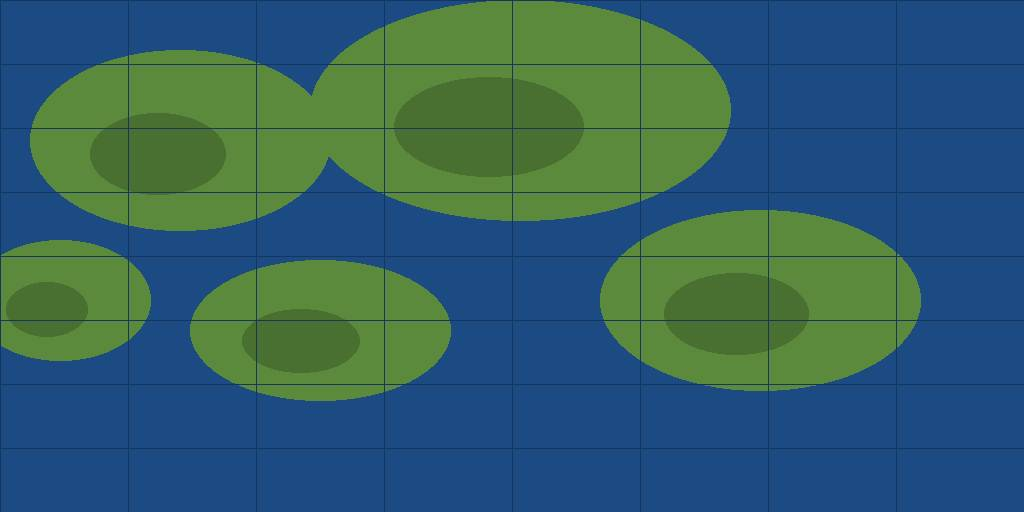
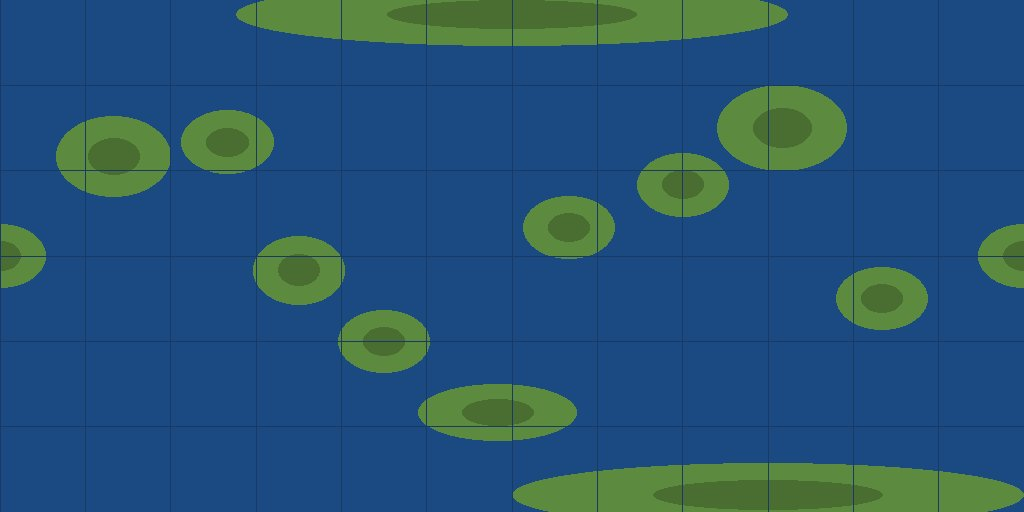
fix(reagent-map): default view, land under every site, stable suite; document Cesium testing
Found by looking at a screenshot and running the suite in both images:

- The view never set a camera, so Cesium used its Earth-sized default and
  Moonwell Spring was off view. It now opens centred there, as the spec says.
- Four of eight sites sat in the sea. A generated 1024x512 image puts land
  under every site.
- Hides the Cesium ion credit, since the view doesn't use ion.
- The suite crashed or timed out at random under emulation. The script now
  uses --shm-size=1g and --workers=3: 10 of 10 runs pass across both images.

docs/testing-cesium.md covers both sides: what the app changed and how the
tests work.

diff --git a/apps/ye-olde-magic-shop/tests/reagent-map-globe.spec.ts b/apps/ye-olde-magic-shop/tests/reagent-map-globe.spec.ts
@@ -50,6 +50,44 @@ test.describe('Reagent map globe (AC2, AC3, AC4)', () => {
     await page.goto('/reagent-map');
   });
 
+  test('every reagent site sits on land in the planet image', async ({ cesium, page }) => {
+    await cesium.waitForSettled();
+
+    const landBySite = await page.evaluate(async (sites) => {
+      const image = new Image();
+      image.src = '/aurelis.jpg';
+      await image.decode();
+      const canvas = document.createElement('canvas');
+      canvas.width = image.width;
+      canvas.height = image.height;
+      const context = canvas.getContext('2d')!;
+      context.drawImage(image, 0, 0);
+      return sites.map((site) => {
+        const x = Math.min(image.width - 1, Math.floor(((site.lng + 180) / 360) * image.width));
+        const y = Math.min(image.height - 1, Math.floor(((90 - site.lat) / 180) * image.height));
+        const [, green, blue] = context.getImageData(x, y, 1, 1).data;
+        return [site.name, green > blue];
+      });
+    }, SEEDED_SITES);
+
+    expect(landBySite).toEqual(SEEDED_SITES.map((site) => [site.name, true]));
+  });
+
+  test('shows no Cesium ion credit, since the view does not use ion', async ({ cesium, page }) => {
+    await cesium.waitForSettled();
+    await expect(page.locator('.cesium-widget-credits')).toBeHidden();
+  });
+
+  test('the default view is centred over Moonwell Spring, with Tidewrack Shoals on the far side', async ({
+    cesium,
+  }) => {
+    await cesium.waitForSettled();
+    const moonwell = SEEDED_SITES.find((site) => site.id === 'moonwell-spring')!;
+
+    expect(await cesium.toScreen(moonwell.lat, moonwell.lng)).not.toBeNull();
+    expect(await cesium.toScreen(TIDEWRACK_SHOALS.lat, TIDEWRACK_SHOALS.lng)).toBeNull();
+  });
+
   test('runs Cesium with no ion token/imagery, pickers off, SCENE3D, and a 6,000km-radius sphere (AC2)', async ({
     cesium,
     page,

diff --git a/apps/ye-olde-magic-shop/src/views/ReagentMapView.vue b/apps/ye-olde-magic-shop/src/views/ReagentMapView.vue
@@ -43,6 +43,9 @@ declare global {
 const AURELIS_RADIUS_METERS = 6_000_000;
 const CESIUM_SCRIPT_URL = '/cesium/Cesium.js';
 const SITE_MARKER_PIXEL_SIZE = 10;
+// The spec's default view is centred over Moonwell Spring. Without this, Cesium
+// falls back to its Earth-sized home view, far from the planet's seeded sites.
+const DEFAULT_VIEW = { lat: 10, lng: 20, heightMeters: 12_000_000 };
 
 const sites = ref<ReagentSite[]>([]);
 let viewer: CesiumModule.Viewer | null = null;
@@ -93,6 +96,11 @@ async function buildViewer() {
     shouldAnimate: false
   });
   newViewer.scene.mode = Cesium.SceneMode.SCENE3D;
+  // No ion in this view, so its default credit logo would only mislead.
+  (newViewer.cesiumWidget.creditContainer as HTMLElement).style.display = 'none';
+  newViewer.camera.setView({
+    destination: Cesium.Cartesian3.fromDegrees(DEFAULT_VIEW.lng, DEFAULT_VIEW.lat, DEFAULT_VIEW.heightMeters, ellipsoid)
+  });
 
   return { Cesium, viewer: newViewer, ellipsoid };
 }

diff --git a/apps/ye-olde-magic-shop/scripts/generate-aurelis-image.py b/apps/ye-olde-magic-shop/scripts/generate-aurelis-image.py
@@ -1,0 +1,58 @@
+#!/usr/bin/env python3
+"""Regenerates public/aurelis.jpg, the equirectangular surface of Aurelis.
+
+Land is drawn under every reagent site in apps/mock-api/data/reagent-sites.json, plus a few
+extra landmasses so the planet does not look built around its sites. The output is committed;
+rerun this only when the sites change. Needs Pillow. Run from apps/ye-olde-magic-shop.
+"""
+import json
+from pathlib import Path
+
+from PIL import Image, ImageDraw
+
+WIDTH, HEIGHT = 1024, 512  # larger images made software rendering slow enough to time out
+SEA, LAND, HIGHLAND, GRID = (27, 73, 130), (92, 138, 62), (74, 110, 50), (24, 58, 100)
+SITE_RADIUS_DEGREES = (16, 11)  # half-width in longitude, half-height in latitude
+EXTRA_LAND = [(-140, 35, 20, 14), (-5, -55, 24, 10), (95, 45, 22, 15), (-75, -5, 16, 12)]
+
+
+def to_pixel(lng, lat):
+    return (lng + 180) / 360 * WIDTH, (90 - lat) / 180 * HEIGHT
+
+
+def ellipse(draw, lng, lat, half_lng, half_lat, color):
+    # Drawn three times so land crossing the 180th meridian wraps around the image.
+    for shift in (-360, 0, 360):
+        left, top = to_pixel(lng + shift - half_lng, lat + half_lat)
+        right, bottom = to_pixel(lng + shift + half_lng, lat - half_lat)
+        draw.ellipse([left, top, right, bottom], fill=color)
+
+
+def land_at(draw, lng, lat, half_lng, half_lat):
+    # A pole's row spans the whole image, so land near one needs far more longitude to read as land.
+    widen = 1 + (abs(lat) / 90) ** 8 * 8
+    ellipse(draw, lng, lat, half_lng * widen, half_lat, LAND)
+    ellipse(draw, lng, lat, half_lng * widen * 0.45, half_lat * 0.45, HIGHLAND)
+
+
+def graticule(draw):
+    for lng in range(-180, 180, 30):
+        draw.line([to_pixel(lng, 90), to_pixel(lng, -90)], fill=GRID, width=1)
+    for lat in range(-60, 90, 30):
+        draw.line([to_pixel(-180, lat), to_pixel(180, lat)], fill=GRID, width=1)
+
+
+def main():
+    sites = json.loads(Path('../mock-api/data/reagent-sites.json').read_text())
+    image = Image.new('RGB', (WIDTH, HEIGHT), SEA)
+    draw = ImageDraw.Draw(image)
+    for lng, lat, half_lng, half_lat in EXTRA_LAND:
+        land_at(draw, lng, lat, half_lng, half_lat)
+    for site in sites:
+        land_at(draw, site['lng'], site['lat'], *SITE_RADIUS_DEGREES)
+    graticule(draw)
+    image.save('public/aurelis.jpg', quality=85)
+
+
+if __name__ == '__main__':
+    main()

diff --git a/docs/testing-cesium.md b/docs/testing-cesium.md
@@ -1,0 +1,209 @@
+# Testing a Cesium globe with Saturday
+
+This page explains how we test the demo app's reagent map, what the app had to change, and what went
+wrong on the way. It covers both sides, so a second app can do the same. For the runner image
+itself, see [runner-image.md](runner-image.md); for the package's API, see
+[its README](../packages/saturday-playwright-cesium/README.md).
+
+## The short version
+
+A Cesium globe is one `<canvas>`. It has no DOM elements for a marker, so a normal locator cannot
+find one. Three things replace locators:
+
+1. **A seam.** The app exposes its Cesium viewer on `window`, and tags each entity with metadata.
+2. **Gestures through real mouse events.** A latitude and longitude become a page position, then a
+   real `page.mouse` click.
+3. **State reads.** Tests ask the viewer what is on the globe, in degrees and metres.
+
+## Where is the marker? No ML needed
+
+To check that something landed at the right coordinates, tests use geometry against the viewer's
+own state, not image recognition. `getEntities()` returns each entity's position in degrees, and
+`distance()` compares it to the expected position using the planet's radius:
+
+```typescript
+const radiusMeters = await cesium.globeRadiusMeters();
+const errorMeters = distance(expected, site.geometry.point, radiusMeters);
+expect(errorMeters).toBeLessThanOrEqual(1_000);
+```
+
+Each kind of check answers a different question:
+
+| Question | How it's checked |
+|---|---|
+| Is the entity at the right coordinates? | `getEntities()` with `distance()`, within the spec's 1 km |
+| Did a click land where intended? | `clickAt(lat, lng)`, then compare what the globe picked, within `metersPerPixelAt` |
+| Did the shop store the right shape? | Read it back through the API. This is the one check independent of rendering (AC11) |
+| Is the point on land? | Read the planet image's pixel at those coordinates |
+| Does it look right? | Screenshots, which state reads can't replace (see "What these tests can't see") |
+
+`@orieken/saturday-ml-analyzer` answers a different question: which parts of a page no test touched.
+It doesn't check correctness.
+
+## What the app had to do
+
+All of this is in `apps/ye-olde-magic-shop`, mostly `src/views/ReagentMapView.vue`.
+
+### For the tests
+
+| Change | Why |
+|---|---|
+| `window.__SATURDAY_CESIUM__ = { viewer, Cesium }`, set on mount and cleared on unmount | The seam. Every helper reads through it, and tests need `Cesium` for its projection functions |
+| `entity.saturdayMetadata = { id, name, kind }` on each entity | How tests find a specific entity. `getEntities()` ignores anything untagged |
+| `data-testid` on the site list and nav link | They are ordinary DOM, so ordinary locators work |
+
+### To run with no network
+
+| Change | Why |
+|---|---|
+| `baseLayerPicker: false`, `geocoder: false`, and one `baseLayer` | Cesium's defaults reach for ion, which needs a token and the network |
+| `SingleTileImageryProvider` with `public/aurelis.jpg` | One local image covers the planet |
+| `cesiumStaticAssetsPlugin` in `vite.config.ts` serves `/cesium/`, and `CESIUM_BASE_URL = '/cesium/'` in `main.ts` | Cesium loads workers and assets at run time. They come from `node_modules`, and nothing generated is committed |
+| Cesium loaded as a global `<script>`, not `import` | `cesium@1.146.0` could not be bundled by Rollup for a production build, because of a packaging mismatch with `@cesium/engine` |
+| The Cesium credit hidden | The default logo says "Cesium ion", and this view doesn't use ion |
+
+**Still open:** `src/styles.css` imports Google Fonts on every page, so the no-request test skips
+those two hosts. See "Known gaps".
+
+### For an invented planet
+
+| Change | Why |
+|---|---|
+| `new Cesium.Ellipsoid(r, r, r)` with `r = 6_000_000`, passed to the `Globe` and to every position | Without it, positions are computed on Earth's ellipsoid |
+| The radius read from the seam in tests, never hard-coded to Earth's | A helper assuming Earth's radius would be about 6% wrong here, and would fail |
+| A camera set explicitly on load | Otherwise Cesium uses its Earth-sized default view (see "What went wrong") |
+| `scripts/generate-aurelis-image.py` draws land under every site, at 1024×512 | The first image put four sites in the sea, and 2048×1024 made rendering slow enough to time out |
+
+### Everything else
+
+- **A feature flag.** `VITE_FEATURE_REAGENT_MAP`, off in `.env`. `isReagentMapEnabled` is a small pure
+  function, so it's tested without a browser.
+- **Lazy loading.** The route uses `() => import(...)`, so nothing Cesium-related loads with the flag off.
+- **Accessibility.** The globe has `role="img"` and an `aria-label` pointing at the site list, which
+  is the screen-reader equivalent of the canvas. `aria-hidden` won't work, because Cesium makes its
+  container focusable.
+- **The API.** `GET /api/reagent-sites`, plus `GET` and `POST /api/expeditions`, in `apps/mock-api`.
+
+## How the tests work
+
+### The package
+
+`@orieken/saturday-playwright-cesium` has its own suite, against a fixture globe in its `fixtures/`
+folder.
+
+| Helper | What it does |
+|---|---|
+| `waitForSettled()` | Waits for tiles loaded, camera still, and a frame drawn since the camera last moved. Rejects after 15 seconds, naming what it was waiting on |
+| `getEntities()` | Every tagged entity, with its geometry in degrees and metres |
+| `toScreen(lat, lng)` | Page coordinates, or `null` on the far side or off screen |
+| `clickAt(lat, lng)` | A real `page.mouse` click at that point |
+| `flyTo(lat, lng, heightMeters)` | Moves the camera, then waits to settle |
+| `metersPerPixelAt(lat, lng)` | Ground size of a pixel, to set a click's tolerance |
+| `globeRadiusMeters()` | The radius, from the seam |
+| `distance`, `lineLength`, `pointInCircle` | Pure geometry, tested in Node without a browser |
+
+There is deliberately no helper that draws through Cesium's API. Leaflet's `drawLine` does that, so
+its tests pass even when the app's drawing tool is broken. "Choose the line tool, place two points,
+save" belongs in a Saturday Flow in the app's test site, built on these gestures.
+
+### The browser
+
+WebGL needs real, headed Chrome with a software renderer:
+
+```typescript
+{
+  name: 'chrome',
+  use: {
+    channel: 'chrome',
+    headless: false,
+    launchOptions: { args: ['--use-gl=angle', '--use-angle=swiftshader'] },
+  },
+}
+```
+
+The renderer is ANGLE SwiftShader. Mesa llvmpipe gave a null `webgl2` context in the runner image.
+
+`tests/reagent-map-*.spec.ts` run only in the `chrome` project. A `testIgnore` keeps them out of the
+bundled `chromium` project, so `npm run test:e2e` still works on a machine with no Xvfb.
+
+### Running them
+
+```bash
+scripts/ui-suite-in-chrome.sh          # debian
+scripts/ui-suite-in-chrome.sh --ubi9   # ubi9
+```
+
+The script does these steps in order:
+
+1. Builds the image.
+2. Starts the container with `--shm-size=1g`, because Chrome crashes tabs with Docker's default 64 MB.
+3. Installs dependencies and builds the workspace packages.
+4. Starts the app with `VITE_FEATURE_REAGENT_MAP=true`.
+5. Runs `runner-check`.
+6. Runs the `chrome` project with `--workers=3`, because more pages at once starve tile loading.
+
+| Exit code | Means |
+|---|---|
+| 2 | Docker is not installed |
+| 3 | The image build failed |
+| 4 | The app did not become healthy in 180 seconds |
+| 5 | `runner-check` failed |
+| 6 | The dependency install or workspace build failed |
+| 64 | The script got an unknown argument |
+| Other | Playwright's own exit code |
+
+Use a clean checkout. An untracked workspace package makes `pnpm install --frozen-lockfile` fail.
+
+To run the package's own suite with networking off:
+
+```bash
+docker run --rm --platform linux/amd64 --network none -v "$PWD:/work" saturday-runner:debian \
+  bash -lc 'cd /work && pnpm --filter @orieken/saturday-playwright-cesium test'
+```
+
+Install dependencies inside a networked container first. A macOS `node_modules` won't run in Linux.
+
+## What went wrong
+
+Each of these passed its tests until someone looked closer. They're the reason for some of the rules
+above.
+
+| Problem | Why tests missed it | What fixed it |
+|---|---|---|
+| `toScreen` returned canvas coordinates, so clicks would miss on any page with a header | The fixture canvas sat at (0, 0), where the two are equal | Add the canvas's page offset. The fixture canvas now sits at (64, 48), and the old code fails |
+| `waitForSettled` only ever waited for the first frame | Nothing moved the camera and then checked straight away | A camera move now requires a fresh frame |
+| The default view was Cesium's Earth-sized one. Moonwell Spring was off-view and the globe was small | Tests read state, not pixels. A screenshot found it | An explicit camera, and a test that Moonwell is visible and Tidewrack isn't |
+| Four of the eight sites were in the sea | Same | A generated image, and a test reading the pixel under each site |
+| A killed developer stage left the suite passing but unreviewed | The stage hit the 30-minute limit | The work was finished by hand, and bigger orders are now split |
+| A stale pnpm store volume failed with a missing rollup binary | Unrelated to the code | Delete the `ui-suite-pnpm-store` volume |
+| Tests crashed or timed out at random, with a different test each run | Software rendering under emulation ran short of resources: 64 MB of shared memory, too many pages at once, and a large image | `--shm-size=1g`, `--workers=3`, and a 1024×512 image. 10 of 10 runs passed after that |
+
+**The lesson:** make the fixture as awkward as a real page. Offset the canvas, use a planet that isn't
+Earth-sized, and look at a screenshot at least once.
+
+## What these tests can't see
+
+State reads prove what the viewer holds, not what a person sees. A marker can have the right
+coordinates and still be hidden, off camera or the wrong colour. Check a screenshot too.
+
+## Known gaps
+
+- **Google Fonts.** The no-request test skips `fonts.googleapis.com` and `fonts.gstatic.com`, because
+  `src/styles.css` imports them on every page. Serve the fonts locally, then remove the exception.
+- **No visual baselines.** The visual QA stage reports itself as unconfigured for this view. Generate
+  and compare baselines only in the runner image, and start with the DOM around the globe.
+- **No network blocking in the script.** `scripts/ui-suite-in-chrome.sh` uses Docker's default network.
+  The app's "no request" check comes from a test that watches requests. The package's own suite does
+  run with `--network none`.
+- **No coverage tool.** The app has none, so reviewers check coverage by hand.
+
+## Doing this in another app
+
+1. Add `@orieken/saturday-playwright-cesium` as a dev dependency, and pin `cesium` to one exact version.
+2. Build the viewer with your ellipsoid, one local image, and pickers and ion off.
+3. Serve Cesium's assets from your own origin, and set `CESIUM_BASE_URL`.
+4. Set an explicit camera.
+5. Expose the seam, and tag your entities with `saturdayMetadata`.
+6. Add a `chrome` project with the launch args above, and keep your specs out of any bundled-Chromium project.
+7. Write the app's own gestures as Flows, and check results with `getEntities()` and your API.
+8. Run it in both images, and look at a screenshot.

diff --git a/packages/saturday-playwright-cesium/README.md b/packages/saturday-playwright-cesium/README.md
@@ -5,6 +5,8 @@ A Playwright testing fixture for CesiumJS globes, following the same seam-contra
 `Viewer` the way a user does — reading back entities, projecting geographic points to screen
 coordinates, clicking through `page.mouse`, and flying the camera — without depending on pixels.
 
+For the whole picture, including what an app has to change, see [Testing a Cesium globe with Saturday](../../docs/testing-cesium.md).
+
 ## 1. Application Setup (the Seam Contract)
 
 For this package to test your app, it must expose the Cesium `Viewer` instance (and the `Cesium`
